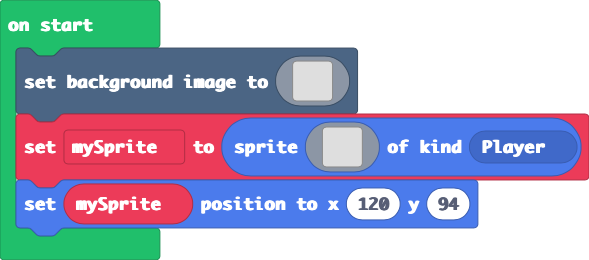
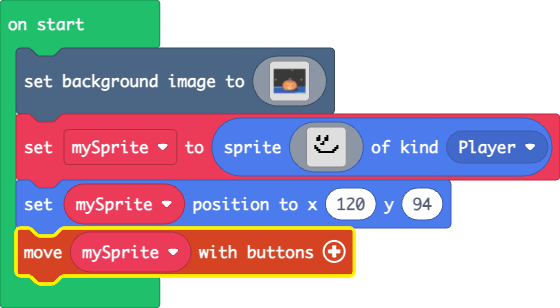
added sprite movement

diff --git a/main.ts b/main.ts
@@ -139,3 +139,4 @@ let mySprite = sprites.create(img`
     . . . . . . . . . . . . . . . . 
     `, SpriteKind.Player)
 mySprite.setPosition(120, 94)
+controller.moveSprite(mySprite)
